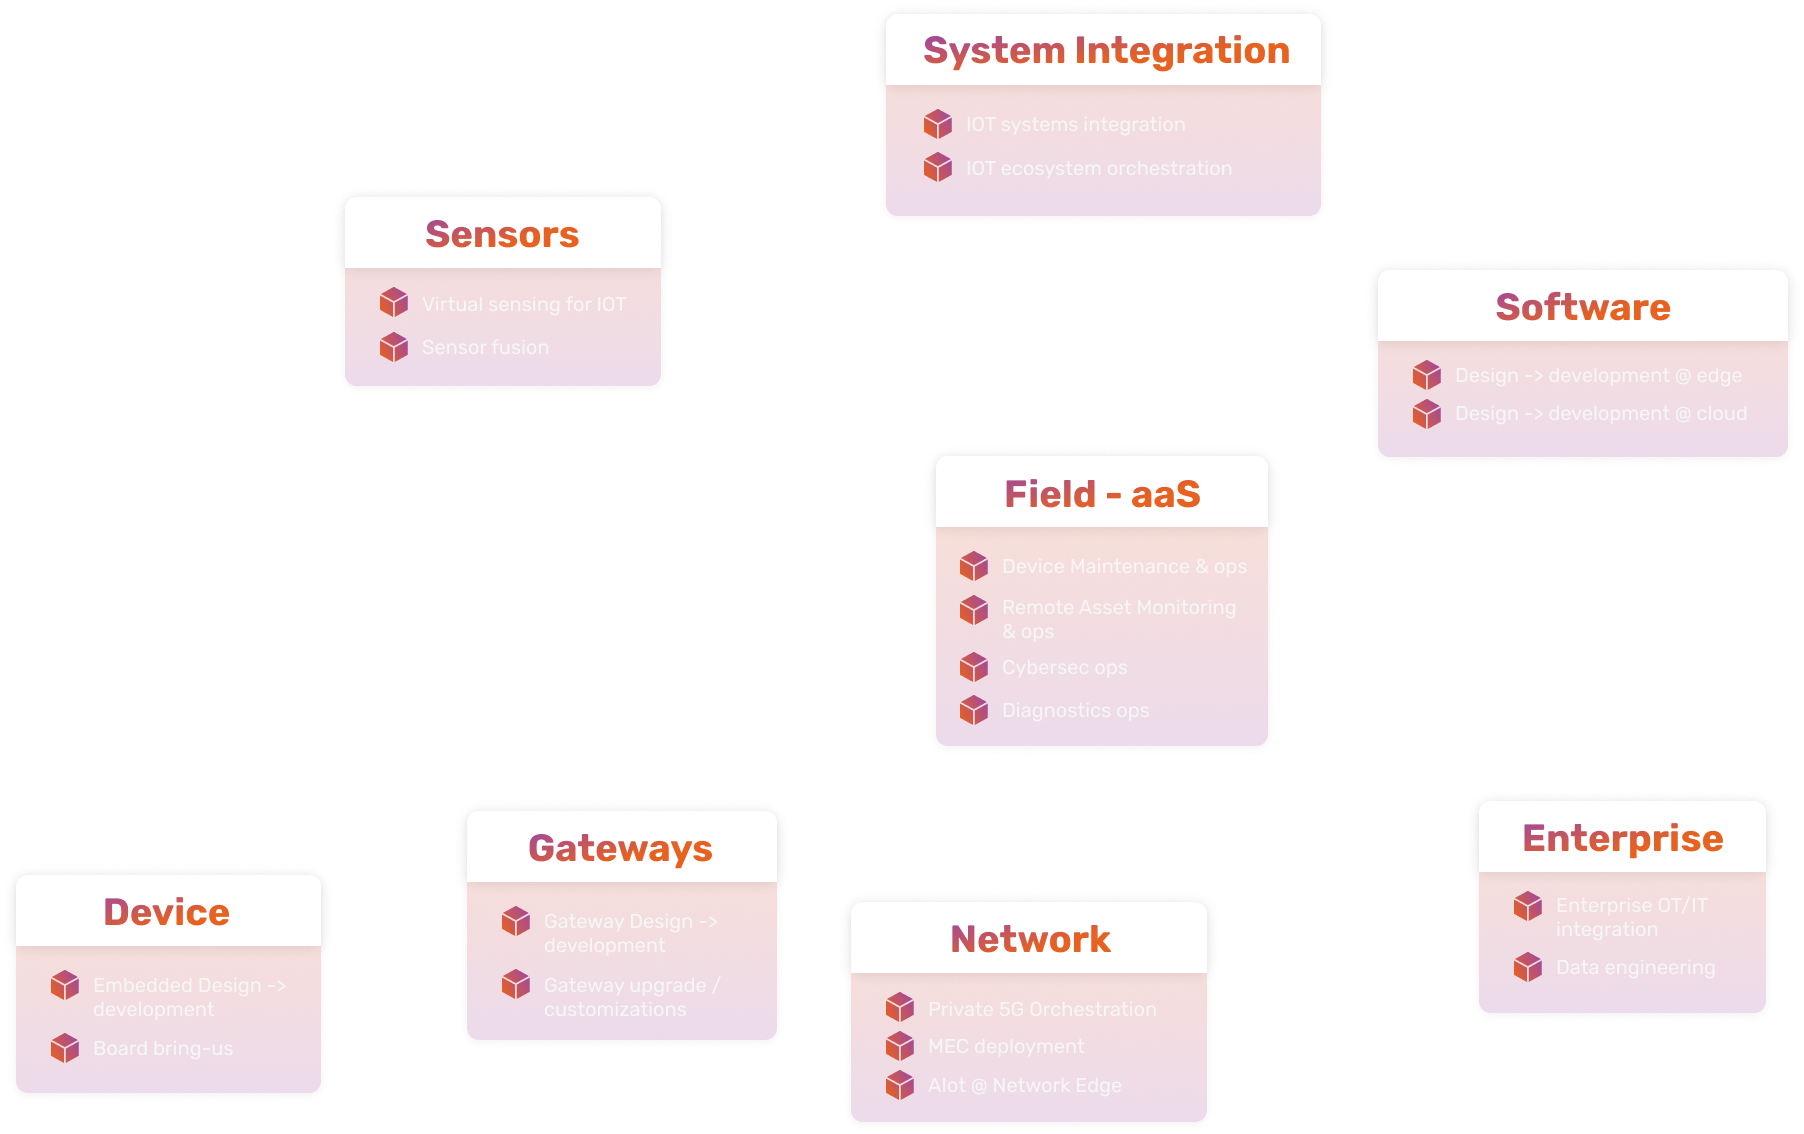
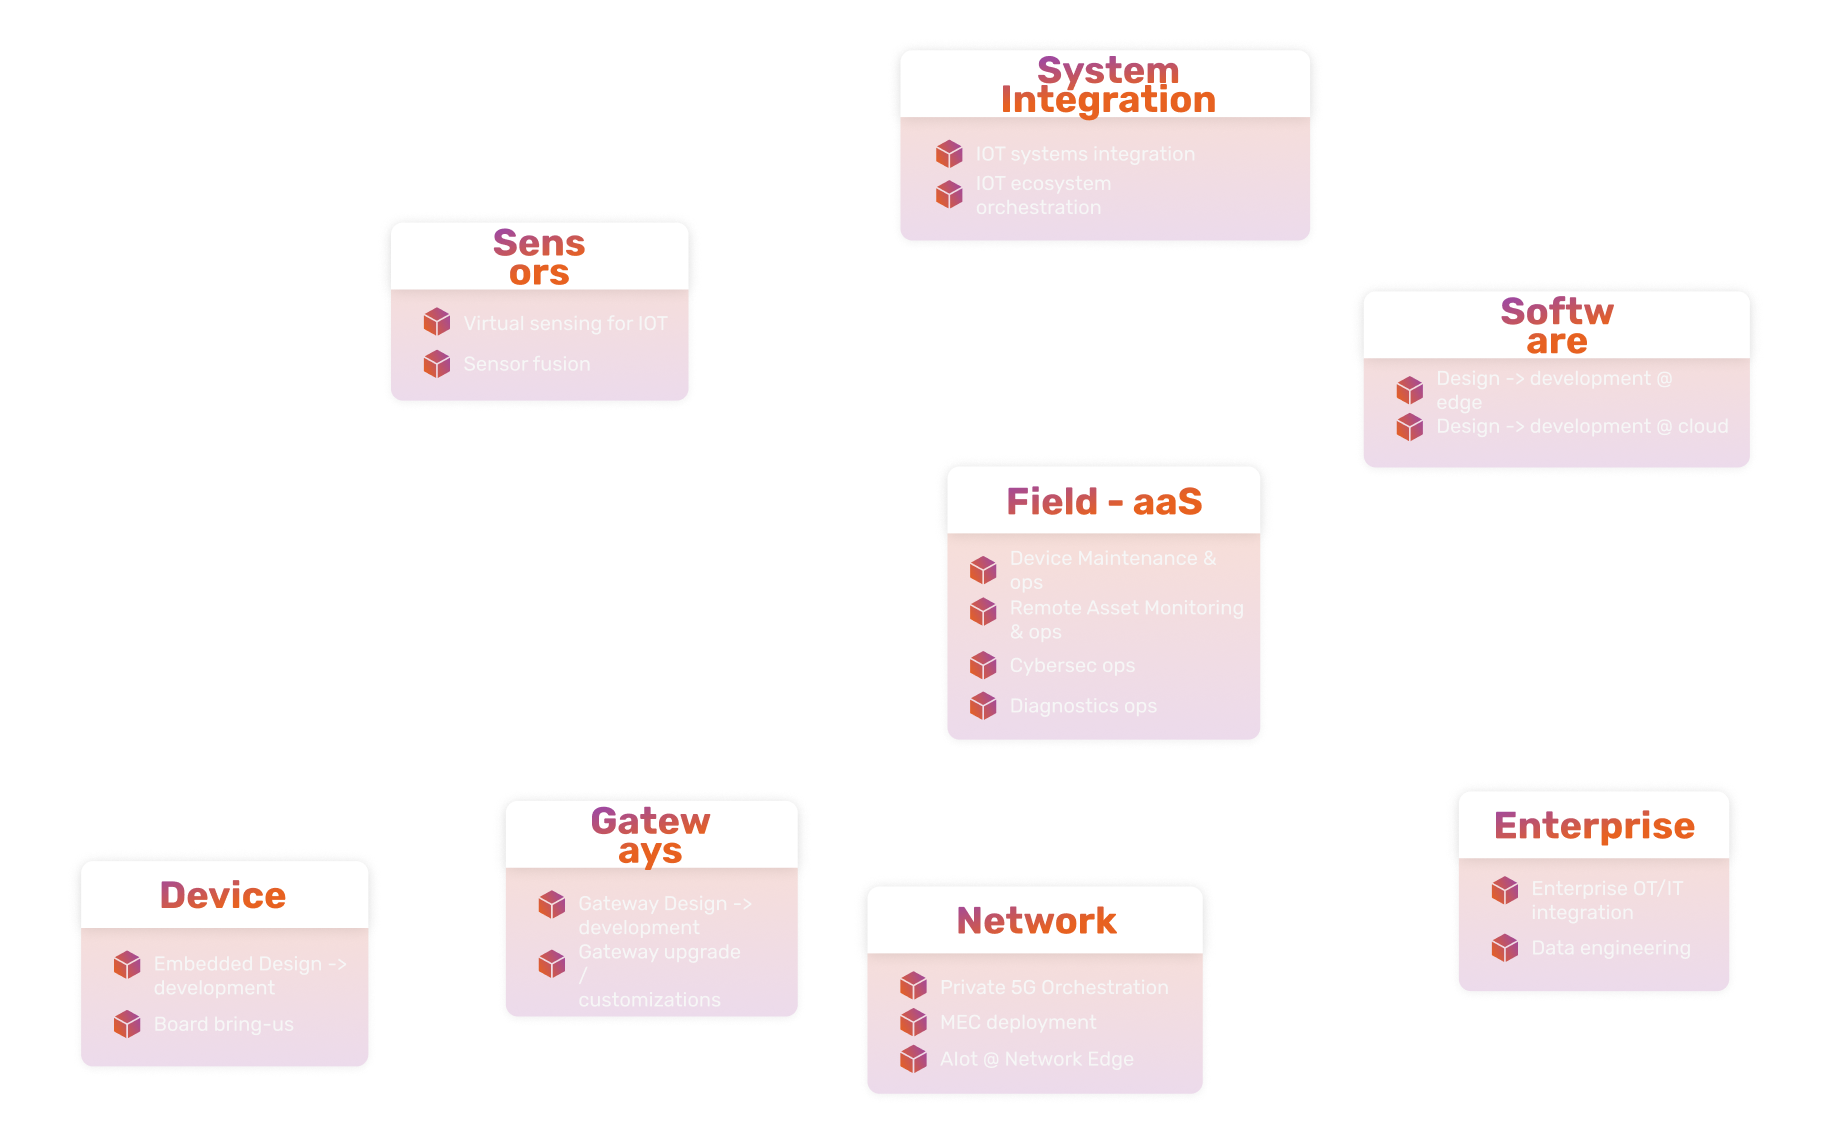
fix serve blox

diff --git a/frontend/src/routes/buildingblox/servblox/+page.svelte b/frontend/src/routes/buildingblox/servblox/+page.svelte
@@ -96,12 +96,12 @@ function handleMouseLeave() {
 			on:mouseenter="{handleMouseEnter}"
 			on:mouseleave="{handleMouseLeave}"
 			style="position: relative; text-align: center;">
-			<img class=" h-[688px] w-[1311]" src="{servbloxleverage}" alt="" />
+			<img class=" object-contain object-center" src="{servbloxleverage}" alt="" />
 
 			{#if isHovered}
 				<!-- svelte-ignore a11y-img-redundant-alt -->
 				<img
-					class=" h-[1108] w-[1788]"
+					class="object-contain object-center"
 					src="{servlevinfo}"
 					alt="Additional Image"
 					style="position: absolute; top: 0%; left: 50%; transform: translateX(-50%); margin-top: 0px;" />
